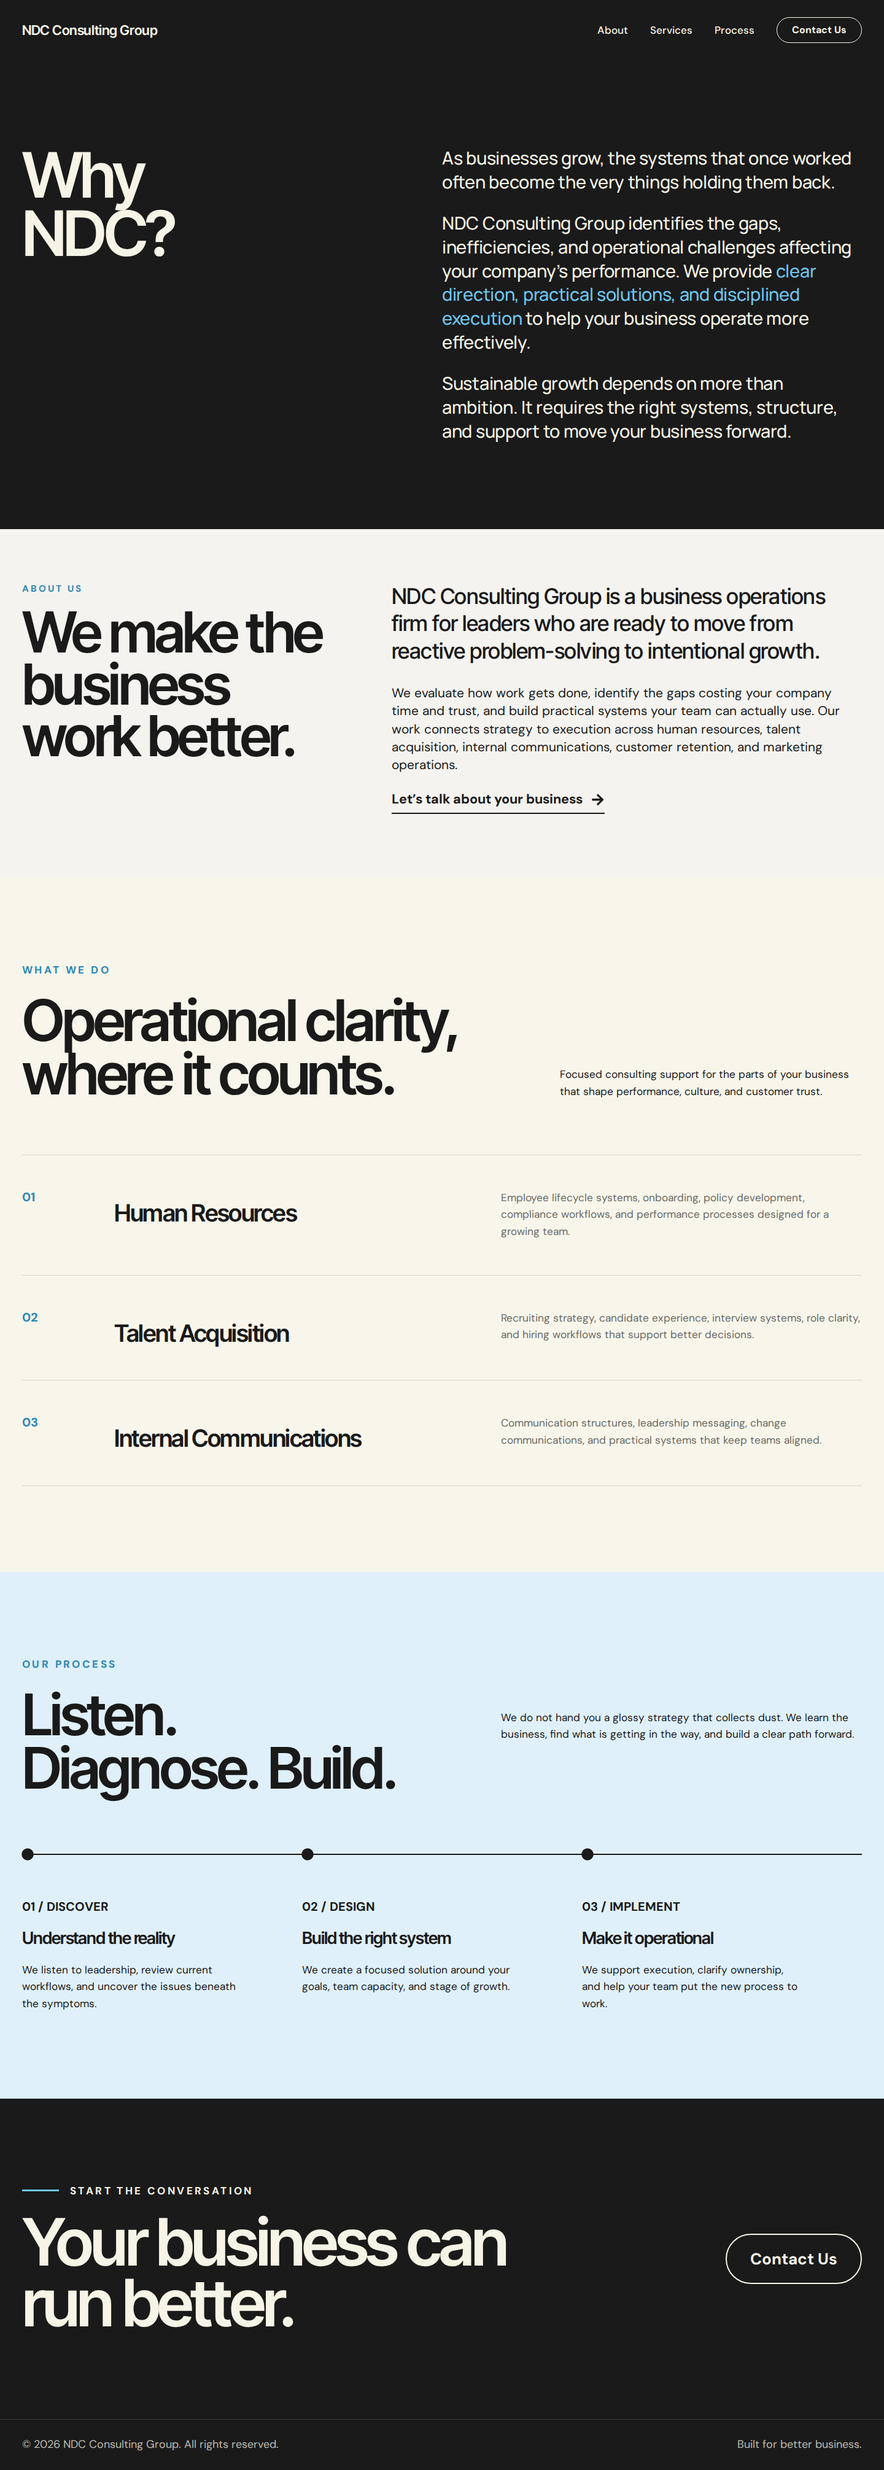
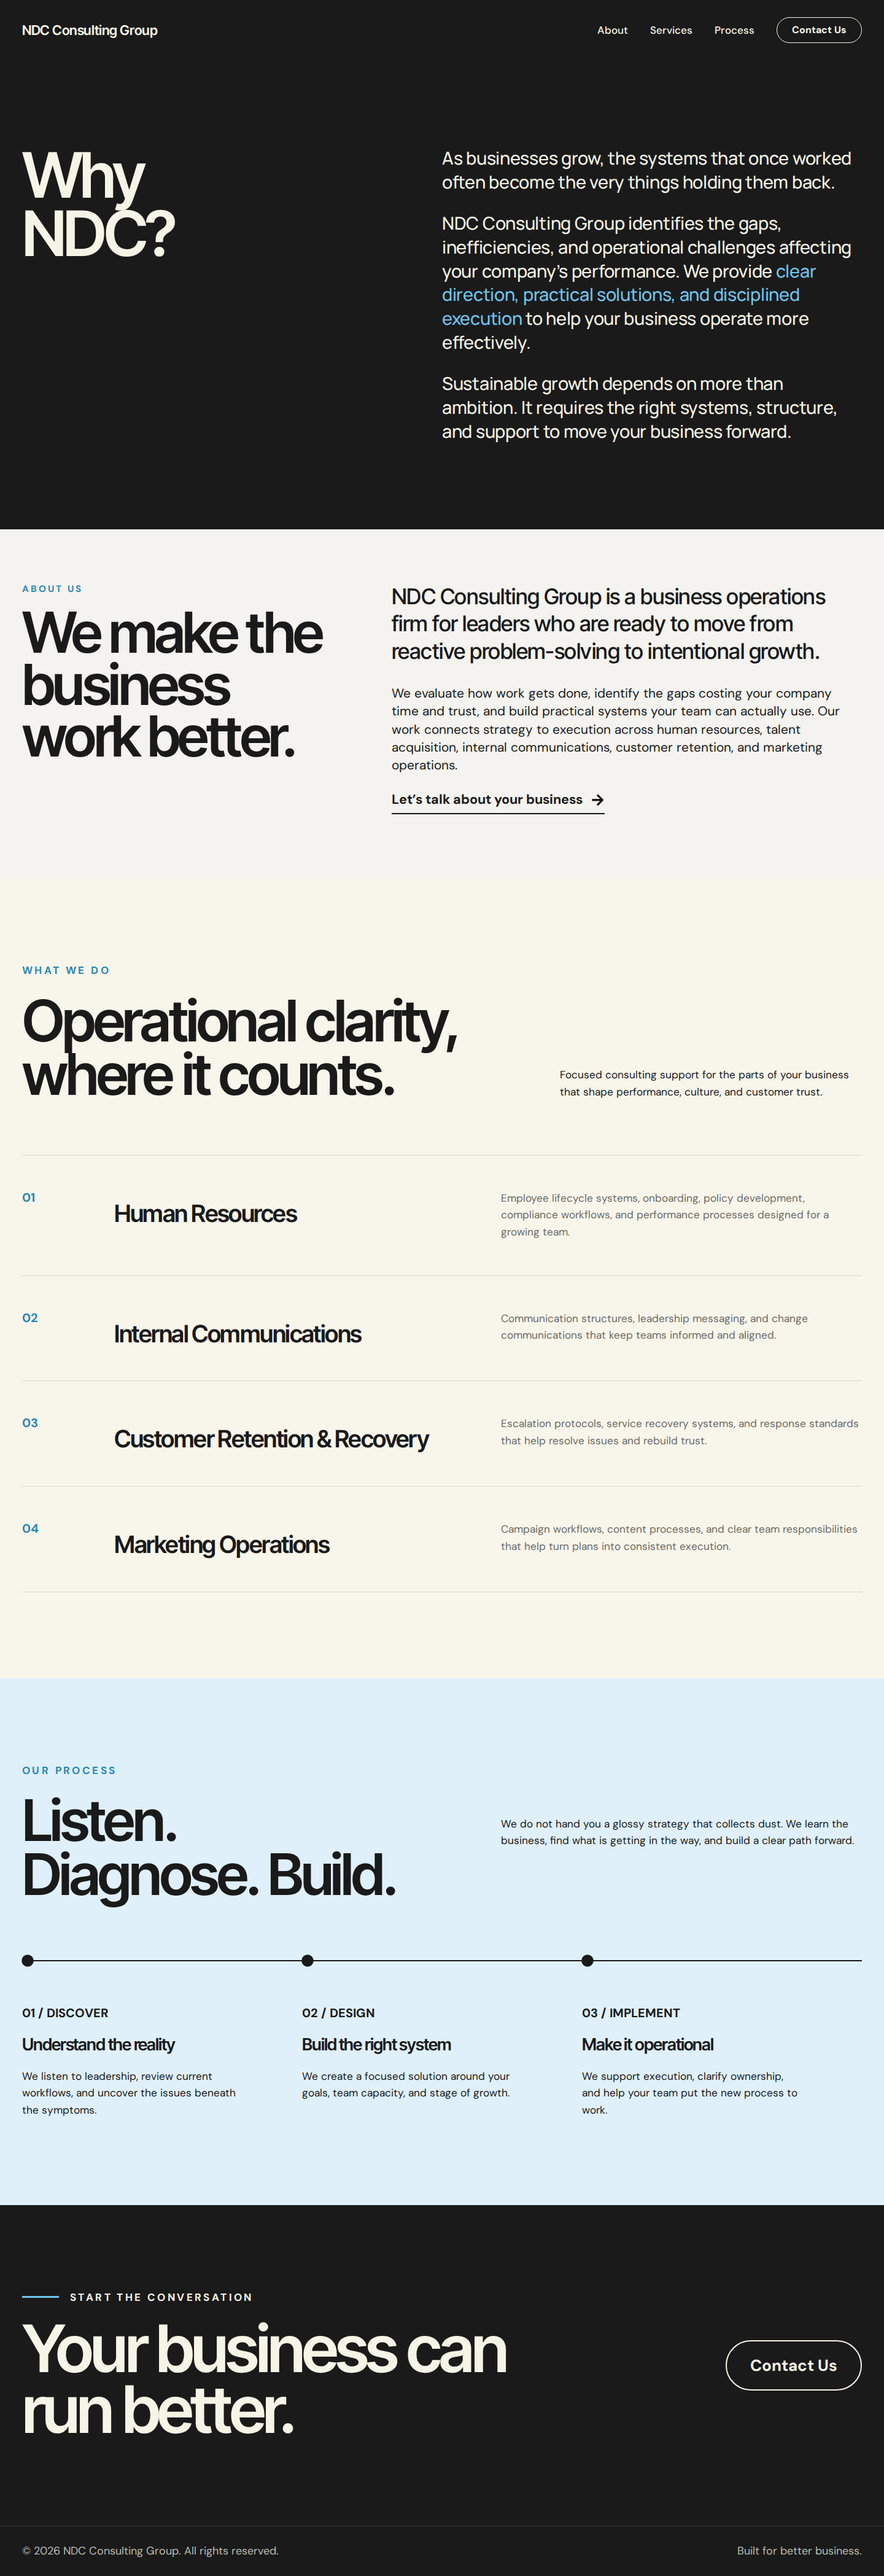
Update What We Do services to the four current offerings
Human Resources, Internal Communications, Customer Retention &
Recovery, and Marketing Operations, with revised descriptions.

Claude-Session: https://claude.ai/code/session_01F9ZgZWKECaq5b3TWi3gWQP

diff --git a/tools/build_ndc_homepage.py b/tools/build_ndc_homepage.py
@@ -367,12 +367,15 @@ SERVICES = [
     ("01", "Human Resources",
      "Employee lifecycle systems, onboarding, policy development, compliance workflows, "
      "and performance processes designed for a growing team."),
-    ("02", "Talent Acquisition",
-     "Recruiting strategy, candidate experience, interview systems, role clarity, "
-     "and hiring workflows that support better decisions."),
-    ("03", "Internal Communications",
-     "Communication structures, leadership messaging, change communications, "
-     "and practical systems that keep teams aligned."),
+    ("02", "Internal Communications",
+     "Communication structures, leadership messaging, and change communications "
+     "that keep teams informed and aligned."),
+    ("03", "Customer Retention & Recovery",
+     "Escalation protocols, service recovery systems, and response standards "
+     "that help resolve issues and rebuild trust."),
+    ("04", "Marketing Operations",
+     "Campaign workflows, content processes, and clear team responsibilities "
+     "that help turn plans into consistent execution."),
 ]
 
 

diff --git a/elementor/README.md b/elementor/README.md
@@ -5,7 +5,7 @@
 1. **Header**: NDC wordmark, About / Services / Process links, and a Contact Us pill.
 2. **Why NDC?**: the copy from *Why NDC Consulting Group – Homepage.docx*, with the key phrase highlighted in sky blue.
 3. **About us**: "We make the business work better." with a "Let’s talk about your business →" link.
-4. **What we do**: Human Resources, Talent Acquisition, Internal Communications.
+4. **What we do**: Human Resources, Internal Communications, Customer Retention & Recovery, Marketing Operations.
 5. **Our process**: Discover → Design → Implement, on a dotted timeline.
 6. **Start the conversation**: a call to action, plus the footer strip.
 
